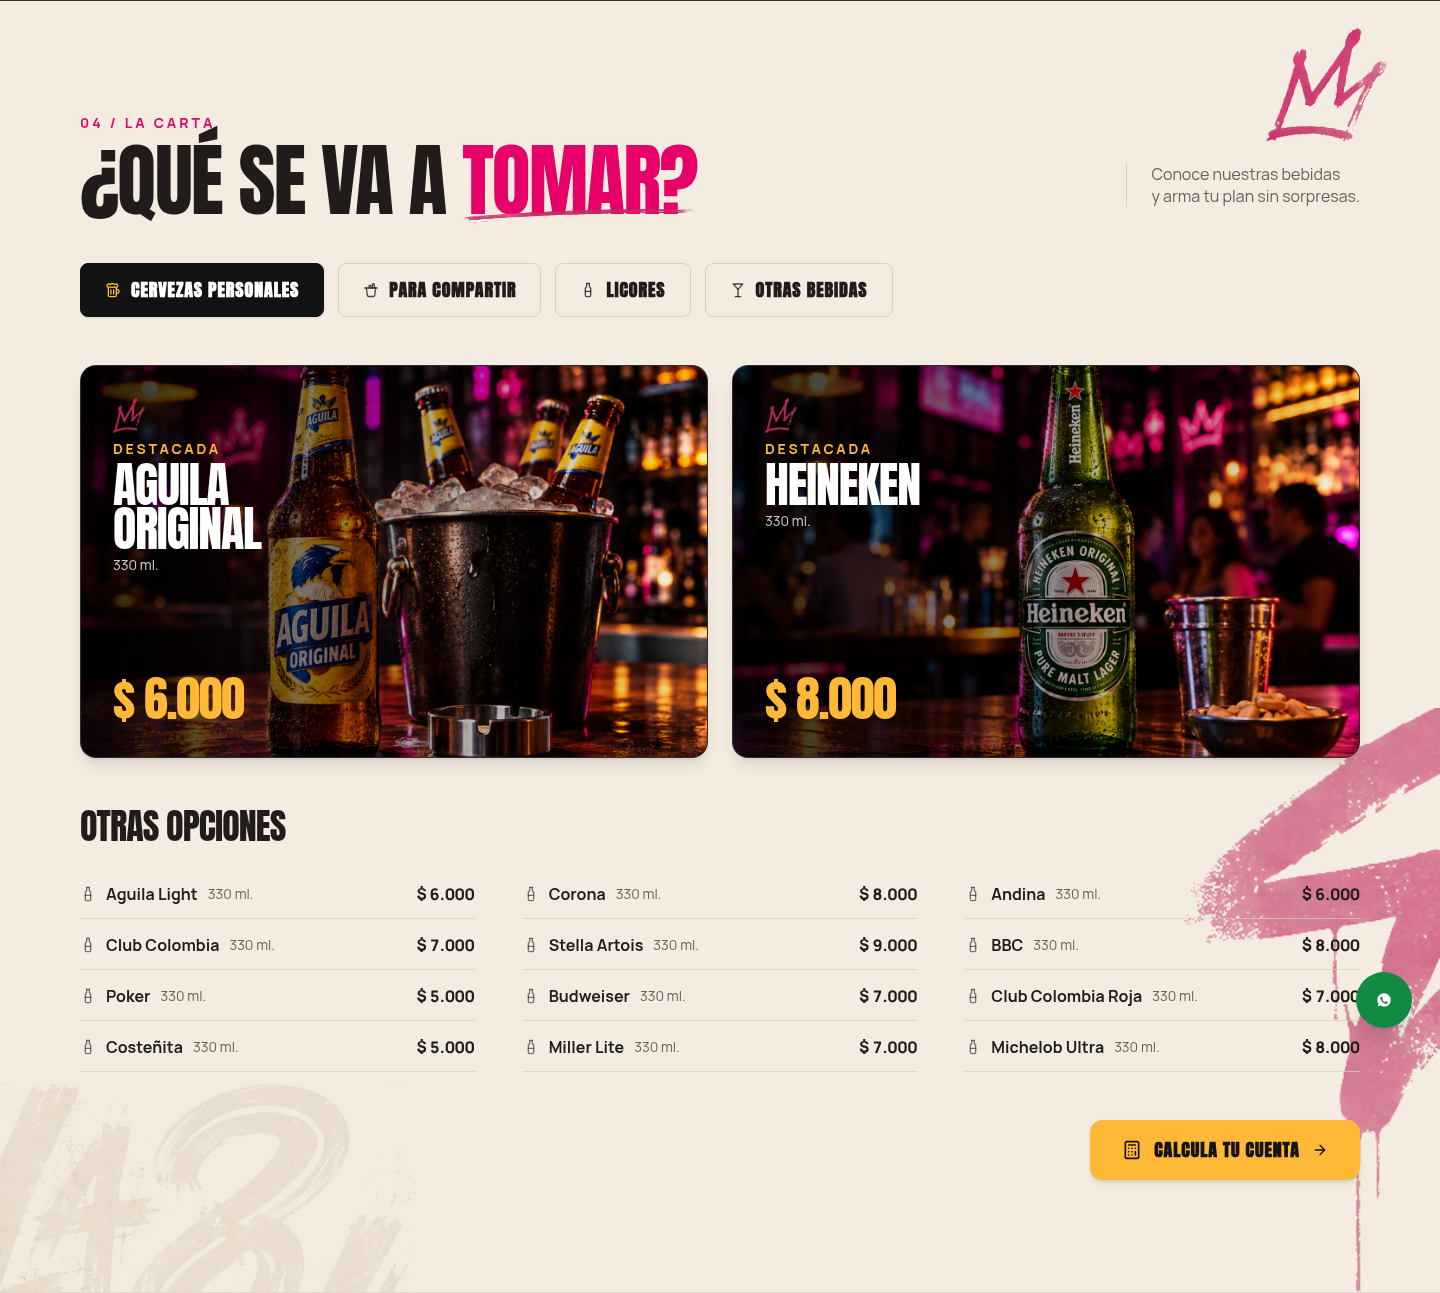
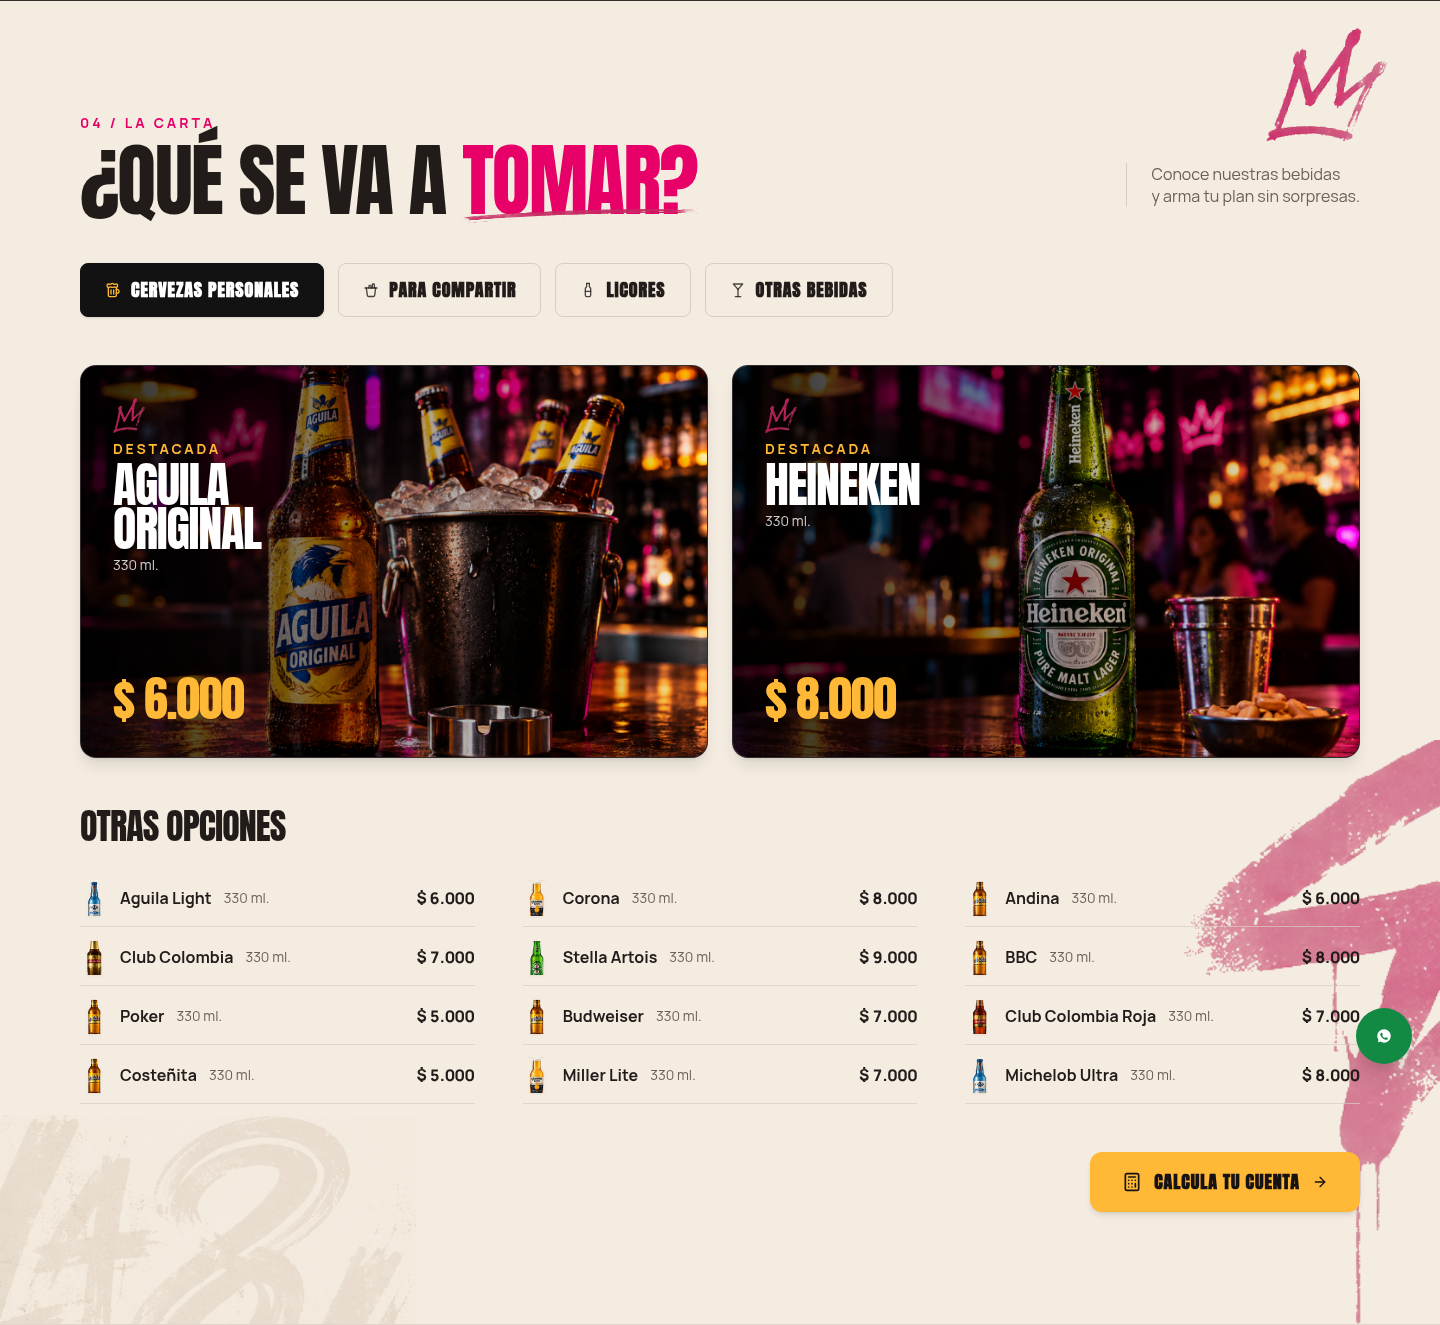
feat: integrate transparent beer bottle thumbnails into carta product list

diff --git a/src/data/siteConfig.ts b/src/data/siteConfig.ts
@@ -15,6 +15,7 @@ export interface MenuItemV2 {
   featured?: boolean;
   tag?: string;
   image?: string;
+  bottleImage?: string;
   desc?: string;
 }
 
@@ -279,6 +280,7 @@ export const MENU_PRODUCTS: MenuItemV2[] = [
     featured: true,
     tag: 'DESTACADA',
     image: '/images/v2/menu-cervezas.png',
+    bottleImage: '/images/v2/bottles/aguila.png',
     desc: 'Cerveza 330 ml.',
   },
   {
@@ -290,6 +292,7 @@ export const MENU_PRODUCTS: MenuItemV2[] = [
     featured: true,
     tag: 'DESTACADA',
     image: '/images/v2/menu-licores.png',
+    bottleImage: '/images/v2/bottles/heineken.png',
     desc: 'Cerveza 330 ml.',
   },
   {
@@ -298,6 +301,7 @@ export const MENU_PRODUCTS: MenuItemV2[] = [
     presentation: '330 ml.',
     price: 6000,
     category: 'personal',
+    bottleImage: '/images/v2/bottles/aguila-light.png',
     desc: 'Ligera, refrescante y suave',
   },
   {
@@ -306,6 +310,7 @@ export const MENU_PRODUCTS: MenuItemV2[] = [
     presentation: '330 ml.',
     price: 7000,
     category: 'personal',
+    bottleImage: '/images/v2/bottles/club-dorada.png',
     desc: 'Dorada tradicional colombiana',
   },
   {
@@ -314,6 +319,7 @@ export const MENU_PRODUCTS: MenuItemV2[] = [
     presentation: '330 ml.',
     price: 5000,
     category: 'personal',
+    bottleImage: '/images/v2/bottles/aguila.png',
     desc: 'El amigo que une al parche',
   },
   {
@@ -322,6 +328,7 @@ export const MENU_PRODUCTS: MenuItemV2[] = [
     presentation: '330 ml.',
     price: 5000,
     category: 'personal',
+    bottleImage: '/images/v2/bottles/aguila.png',
     desc: 'Sabor costeño refrescante',
   },
   {
@@ -330,6 +337,7 @@ export const MENU_PRODUCTS: MenuItemV2[] = [
     presentation: '330 ml.',
     price: 8000,
     category: 'personal',
+    bottleImage: '/images/v2/bottles/corona.png',
     desc: 'Bien fría con limón',
   },
   {
@@ -338,6 +346,7 @@ export const MENU_PRODUCTS: MenuItemV2[] = [
     presentation: '330 ml.',
     price: 9000,
     category: 'personal',
+    bottleImage: '/images/v2/bottles/heineken.png',
     desc: 'Premium lager europea',
   },
   {
@@ -346,6 +355,7 @@ export const MENU_PRODUCTS: MenuItemV2[] = [
     presentation: '330 ml.',
     price: 7000,
     category: 'personal',
+    bottleImage: '/images/v2/bottles/aguila.png',
     desc: 'Clásica lager americana',
   },
   {
@@ -354,6 +364,7 @@ export const MENU_PRODUCTS: MenuItemV2[] = [
     presentation: '330 ml.',
     price: 7000,
     category: 'personal',
+    bottleImage: '/images/v2/bottles/corona.png',
     desc: 'Triple filtrada, ligera',
   },
   {
@@ -362,6 +373,7 @@ export const MENU_PRODUCTS: MenuItemV2[] = [
     presentation: '330 ml.',
     price: 6000,
     category: 'personal',
+    bottleImage: '/images/v2/bottles/aguila.png',
     desc: 'Cerveza colombiana refrescante',
   },
   {
@@ -370,6 +382,7 @@ export const MENU_PRODUCTS: MenuItemV2[] = [
     presentation: '330 ml.',
     price: 8000,
     category: 'personal',
+    bottleImage: '/images/v2/bottles/aguila.png',
     desc: 'Artesanal bogotana',
   },
   {
@@ -378,6 +391,7 @@ export const MENU_PRODUCTS: MenuItemV2[] = [
     presentation: '330 ml.',
     price: 7000,
     category: 'personal',
+    bottleImage: '/images/v2/bottles/club-roja.png',
     desc: 'Maltas tostadas especiales',
   },
   {
@@ -386,6 +400,7 @@ export const MENU_PRODUCTS: MenuItemV2[] = [
     presentation: '330 ml.',
     price: 8000,
     category: 'personal',
+    bottleImage: '/images/v2/bottles/aguila-light.png',
     desc: 'Baja en calorías y carbohidratos',
   },
 
@@ -399,6 +414,7 @@ export const MENU_PRODUCTS: MenuItemV2[] = [
     featured: true,
     tag: 'DESTACADA',
     image: '/images/v2/menu-cervezas.png',
+    bottleImage: '/images/v2/bottles/aguila.png',
     desc: '5 cervezas bien frías en cubeta de hielo',
   },
   {
@@ -410,6 +426,7 @@ export const MENU_PRODUCTS: MenuItemV2[] = [
     featured: true,
     tag: 'DESTACADA',
     image: '/images/v2/menu-licores.png',
+    bottleImage: '/images/v2/bottles/corona.png',
     desc: 'Balde de Coronitas con limón',
   },
   {
@@ -418,6 +435,7 @@ export const MENU_PRODUCTS: MenuItemV2[] = [
     presentation: '1000 ml.',
     price: 10000,
     category: 'compartir',
+    bottleImage: '/images/v2/bottles/aguila.png',
     desc: 'Litro para compartir con los amigos',
   },
   {
@@ -426,6 +444,7 @@ export const MENU_PRODUCTS: MenuItemV2[] = [
     presentation: '1000 ml.',
     price: 10000,
     category: 'compartir',
+    bottleImage: '/images/v2/bottles/aguila.png',
     desc: 'Litro generoso para el parche',
   },
   {
@@ -434,6 +453,7 @@ export const MENU_PRODUCTS: MenuItemV2[] = [
     presentation: '850 ml.',
     price: 11000,
     category: 'compartir',
+    bottleImage: '/images/v2/bottles/club-dorada.png',
     desc: 'Botella grande para compartir',
   },
   {
@@ -442,6 +462,7 @@ export const MENU_PRODUCTS: MenuItemV2[] = [
     presentation: '750 ml.',
     price: 8000,
     category: 'compartir',
+    bottleImage: '/images/v2/bottles/aguila.png',
     desc: 'Ideal para la ronda',
   },
 
